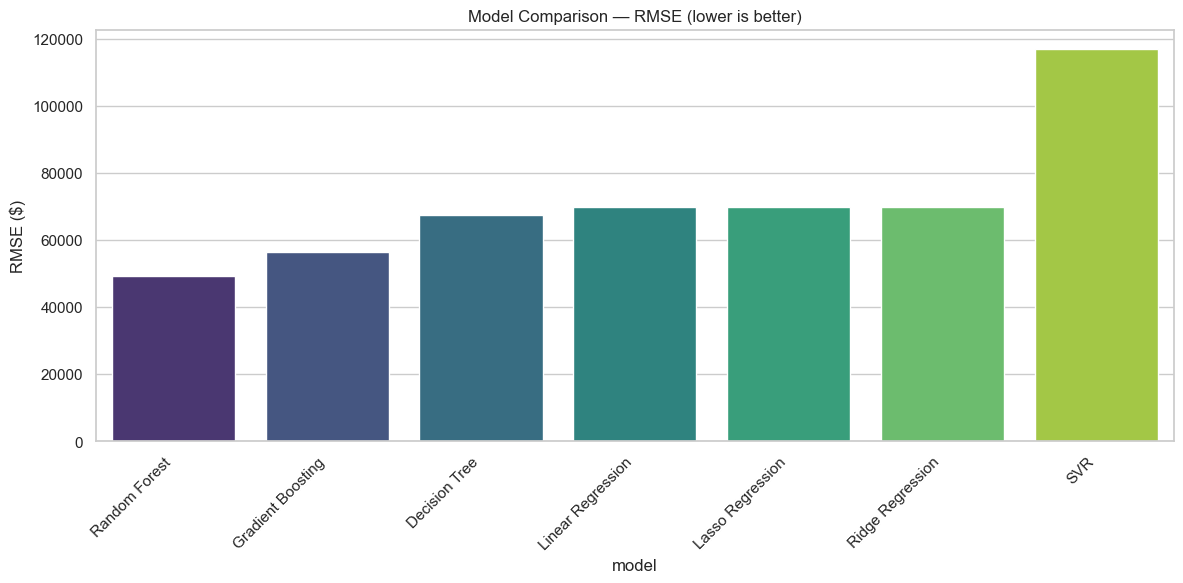
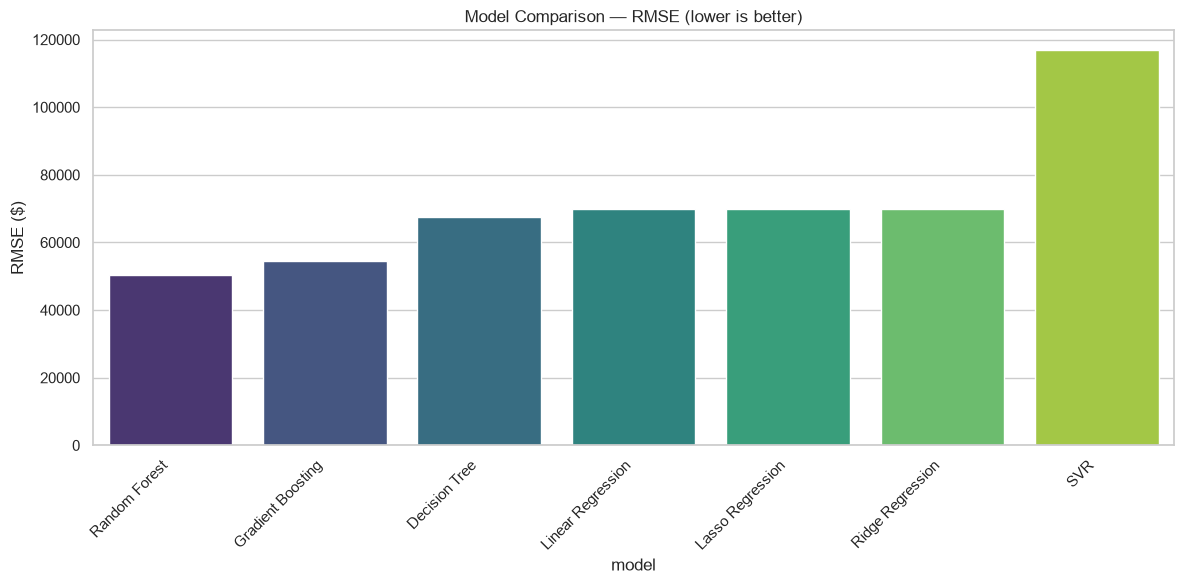
Reduce Random Forest model size

diff --git a/src/train.py b/src/train.py
@@ -30,8 +30,20 @@ MODEL_CONFIGS: dict[str, tuple[object, bool]] = {
     "Ridge Regression": (Ridge(alpha=1.0, random_state=RANDOM_STATE), True),
     "Lasso Regression": (Lasso(alpha=0.1, random_state=RANDOM_STATE), True),
     "Decision Tree": (DecisionTreeRegressor(random_state=RANDOM_STATE), False),
-    "Random Forest": (RandomForestRegressor(n_estimators=100, random_state=RANDOM_STATE), False),
-    "Gradient Boosting": (GradientBoostingRegressor(n_estimators=100, random_state=RANDOM_STATE), False),
+    "Random Forest": (
+        RandomForestRegressor(
+            n_estimators=30,
+            max_depth=20,
+            min_samples_leaf=5,
+            random_state=RANDOM_STATE,
+            n_jobs=-1,
+        ),
+        False,
+    ),
+    "Gradient Boosting": (
+        GradientBoostingRegressor(n_estimators=50, max_depth=5, random_state=RANDOM_STATE),
+        False,
+    ),
     "SVR": (SVR(kernel="rbf"), True),
 }
 

diff --git a/outputs/reports/model_comparison.md b/outputs/reports/model_comparison.md
@@ -14,14 +14,14 @@ The best model is selected using a composite score that weights:
 
 | Rank | Model | RMSE | MAE | R² | Train Time (s) | Predict Time (s) |
 |------|-------|------|-----|----|----------------|------------------|
-| 1 | Random Forest ⭐ | $49,417 | $32,203 | 0.8136 | 7.411 | 0.0705 |
-| 2 | Gradient Boosting | $56,467 | $38,765 | 0.7567 | 2.346 | 0.0070 |
-| 3 | Decision Tree | $67,437 | $42,981 | 0.6530 | 0.195 | 0.0033 |
-| 4 | Linear Regression | $69,944 | $50,498 | 0.6267 | 0.018 | 0.0032 |
-| 5 | Lasso Regression | $69,944 | $50,498 | 0.6267 | 0.239 | 0.0026 |
-| 6 | Ridge Regression | $69,951 | $50,504 | 0.6266 | 0.027 | 0.0024 |
-| 7 | SVR | $116,845 | $86,969 | -0.0419 | 5.636 | 2.1562 |
+| 1 | Random Forest ⭐ | $50,476 | $32,960 | 0.8056 | 1.533 | 0.0720 |
+| 2 | Gradient Boosting | $54,380 | $37,041 | 0.7743 | 6.741 | 0.0368 |
+| 3 | Decision Tree | $67,437 | $42,981 | 0.6530 | 0.552 | 0.0317 |
+| 4 | Linear Regression | $69,944 | $50,498 | 0.6267 | 0.218 | 0.0341 |
+| 5 | Lasso Regression | $69,944 | $50,498 | 0.6267 | 10.838 | 0.0280 |
+| 6 | Ridge Regression | $69,951 | $50,504 | 0.6266 | 0.099 | 0.0382 |
+| 7 | SVR | $116,845 | $86,969 | -0.0419 | 30.367 | 16.7617 |
 
 ## Summary
 
-The **Random Forest** model achieved the best balance of accuracy (RMSE=$49,417, MAE=$32,203, R²=0.8136) and training efficiency among all evaluated algorithms.
+The **Random Forest** model achieved the best balance of accuracy (RMSE=$50,476, MAE=$32,960, R²=0.8056) and training efficiency among all evaluated algorithms.
